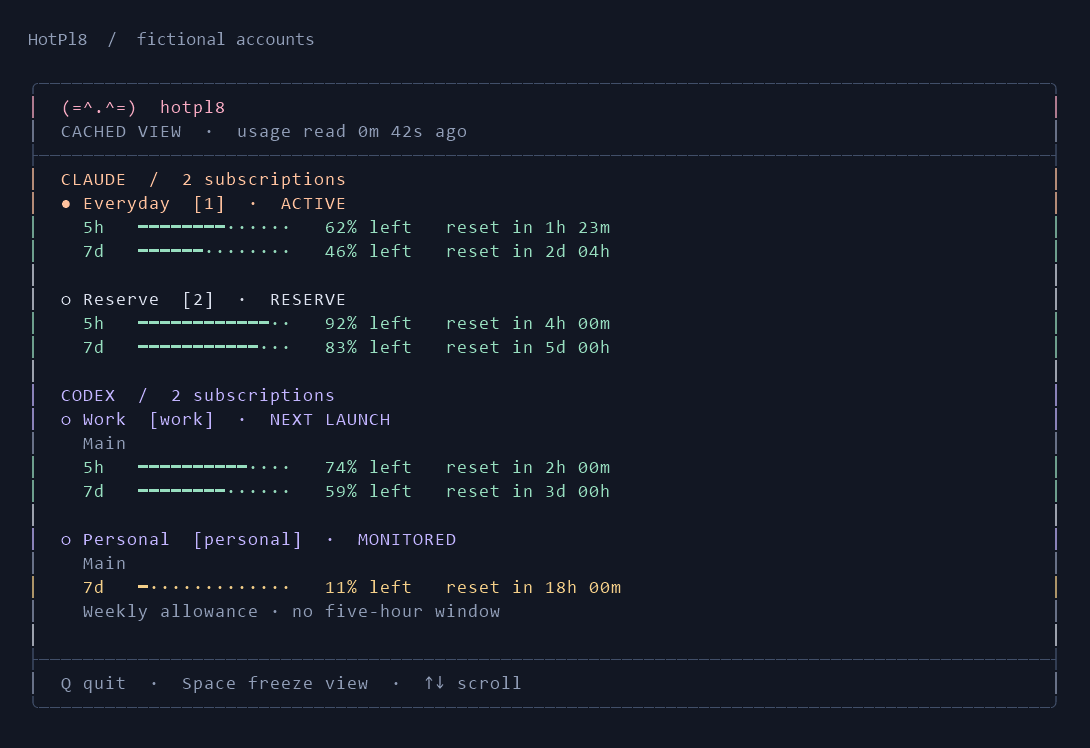
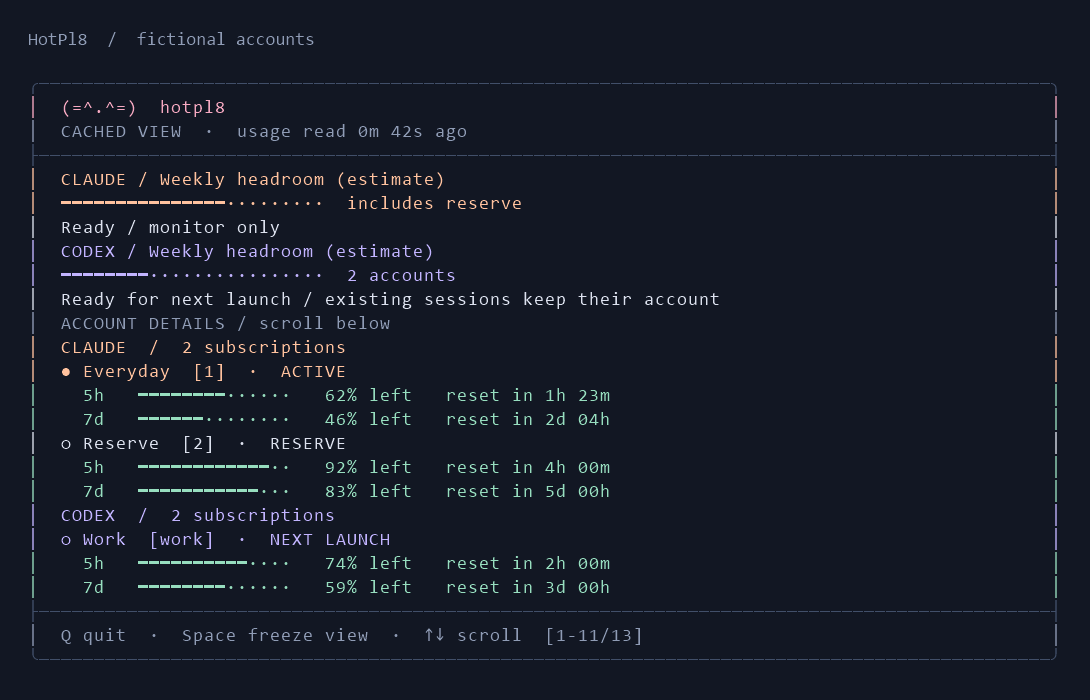
Add unified provider overview with scrollable account details

diff --git a/docs/provider-overview.md b/docs/provider-overview.md
@@ -1,0 +1,23 @@
+# Two providers, one overview
+
+The top of HotPl8 shows one bar for Claude and one for Codex. Each estimates weekly headroom across enabled subscriptions. The line below says whether an account is usable and whether selection is automatic, paused, held, or manual. Codex readiness applies to the next launch; existing sessions retain their accounts.
+
+Scroll down for individual quotas, reset times, warming receipts and selection explanations. The overview stays visible. `hotpl8 status`, `hotpl8 explain`, their JSON output and the optional tray use the same summary calculation. Viewing any of them reads cached evidence without calling providers or sending prompts.
+
+## What the bar measures
+
+Each enabled subscription contributes one equal share. For three accounts with 100%, 50% and 0% of their weekly allowances remaining, the estimate is 50%. An exhausted account stays in the denominator. Disabled accounts leave the managed set. Verified duplicate identities count once; old snapshots without identity evidence cannot establish duplicates.
+
+This is an average of normalized percentages, **not a token budget or a forecast of work-hours**. Different plan tiers may have different capacities. HotPl8 does not invent capacity multipliers, and selection weights do not weight these bars. The primary UI omits a numerical percentage; text/JSON explanations expose the estimate and its coverage.
+
+The Claude bar uses overall weekly usage. The Codex bar uses the configured default meter's weekly window; overlapping meters are never added together. Model limits remain separate eligibility constraints. A bar does not promise the same allowance for every model.
+
+Reserve allowance is included and labeled. Whether it can be selected depends on policy. Readiness also considers short-window limits: the weekly bar can have substantial remaining headroom while the status says unavailable now. The details explain blocked accounts.
+
+## Missing data stays visible
+
+Question marks represent the unknown share of the same bar. If one of three accounts has no valid reading, it still occupies one third; the other two are not expanded to fill the bar. Partial summaries show how many accounts were measured and return no single `remainingPercent` in JSON. Known zero and unknown are distinct.
+
+Old readings, missing windows and expired/unconfirmed resets cannot refill a bar. They require a fresh supported observation. Readers re-evaluate timestamps and policy changes even when the collector has not run again. Collector failures, sign-in needs, blocked readiness and automation pause/hold appear in the overview, with further evidence in the details.
+
+![Individual account details below the fixed provider overview](assets/details.png)

diff --git a/docs/screenshots.md b/docs/screenshots.md
@@ -8,10 +8,12 @@ From the repository root, on Windows with Windows PowerShell 5.1 and Consolas:
 powershell -NoProfile -ExecutionPolicy Bypass -File .\scripts\screenshots.ps1
 ```
 
-Commit the regenerated PNGs in [assets](assets/dashboard.png) with the UI change. Open both images before committing; inspect legibility, clipping, colors, and the first-run instructions. No screenshot tool or provider installation is required.
+Commit the regenerated PNGs in [assets](assets/dashboard.png) with the UI change. Open all images before committing; inspect legibility, clipping, colors, and the first-run instructions. No screenshot tool or provider installation is required.
 
 The harness calls the production [dashboard renderer](../src/dashboard.ps1) and its shared palette. It draws those terminal cells into PNGs with a small caption using Windows System.Drawing. It is a reproducible rendering of the actual UI, not a capture of a live account session. The caption identifies the data as fictional.
 
 The [fixture](../tests/fixtures/screenshots.ps1) fixes account labels, percentages and the clock. The harness fixes viewport, font, DPI and cell size. Identical inputs on the same Windows/font environment produce identical bytes; other font/OS revisions may rasterize differently. Use `-OutputDirectory PATH` to compare a second render without replacing the committed images.
 
 Change the renderer for a UI change, or the fixture for a different documentation scenario. Keep fixtures fictional and independent of the machine. Never load policy.json, status.json, account homes, environment secrets, or native provider output into this harness. This is a development tool, not an application demo command.
+
+`dashboard.png` fixes the opening view at 94 columns by 25 rows. `details.png` renders the last details page at 94 by 34 with the same pinned provider overview. `operations.png` exercises operational detail at 110 by 50. All use the same fixed clock and renderer.

diff --git a/docs/architecture.md b/docs/architecture.md
@@ -77,6 +77,7 @@ src/
   automation.ps1            Shared pause, schedule and attempt gates
   warming.ps1               Receipt persistence and observation reconciliation
   collection.ps1            Persisted collection due times and backoff
+  overview.ps1              Pure provider summaries shared by all cached views
   forecast.ps1 / insights.ps1
                             Shared estimates, bounded history and activity
   selection.ps1 / replay.ps1 Optional ranking keys and production-selector replay
@@ -99,3 +100,5 @@ Public entrypoints stay at the root so existing commands, scheduled tasks, and h
 PowerShell keeps the Windows installation small, but other platforms are not release-qualified. Native provider contracts can change: fixture tests establish local behavior, while live compatibility needs separate evidence. Monitor mode is the starting point; optional automation needs explicit configuration. See [compatibility](compatibility.md) for the tested scope and remaining qualification work.
 
 The collector adds insights and shadow decisions before one atomic publication. Views consume recorded decisions and overlay the latest collector/pause state; they never run selection actions. [Operations and state contracts](operations.md).
+
+Provider summaries are additive `providerOverview` fields on snapshots and status output. Readers recompute them from current policy, cached observations and the current clock; an old saved summary never makes old data fresh. The pinned dashboard overview, tray and CLI use the same pure calculation. [Metric contract](provider-overview.md).

diff --git a/docs/operations.md b/docs/operations.md
@@ -87,3 +87,5 @@ Use the policy that produced the trace, apart from the ordering being compared. 
 Run `hotpl8 tray` in a Windows desktop session. It reads the same cache, shows account details, opens the terminal dashboard, and exposes deliberate pause/resume commands. It owns no provider process or collector. Quit removes the icon; scheduled collection continues. A per-state mutex prevents two tray consumers from duplicating notifications. `hotpl8 tray -Once` prints the view model without opening a window.
 
 Notifications require `notificationsEnabled: true` and follow work hours. They cover sustained collector failure, no eligible account, native sign-in needs and a fresh depletion estimate. Transition state persists across restarts and ignores harmless reset drift. Routine polls and warm successes do not notify. Windows may suppress balloons under system notification settings. This companion is optional, is not installed at startup, and has not yet completed an interactive desktop/idle-resource qualification pass. Native Mac delivery belongs to the [Mac handoff](plans/macos-handoff.md).
+
+The dashboard, status command and tray share the [provider overview](provider-overview.md). `status -AsJson` adds `providerOverview` while retaining all per-account fields; `explain -AsJson` also includes it. `remainingPercent` is null with partial coverage; `knownRemainingPercent` and `unknownPercent` use the full enabled membership as their denominator. `computedAt` is the calculation clock, not a quota observation timestamp.

diff --git a/README.md b/README.md
@@ -6,9 +6,11 @@
 
 - **Pick the best available account.** Automatically switch Claude accounts using quota, reset times, and your reserve rules. Codex selects an account for your next launch.
 - **Warm idle Claude accounts.** Optional small requests aim to start usage windows earlier, so accounts are ready when you need them.
-- **See every account at a glance.** Remaining quota, reset times, active accounts, and stale readings in one terminal dashboard.
+- **See your subscriptions at a glance.** One weekly-headroom bar for Claude and one for Codex, with readiness beside each and individual accounts below.
 
-![HotPl8 showing two fictional Claude accounts and two Codex accounts, with quota bars, reset times, and separate ACTIVE and NEXT LAUNCH indicators](docs/assets/dashboard.png)
+![HotPl8 showing unified Claude and Codex weekly-headroom bars with account details below](docs/assets/dashboard.png)
+
+[How the provider bars work](docs/provider-overview.md) · Scroll down for individual quotas, resets and selection details.
 
 Windows preview. Starts in monitoring mode; Claude switching and warming are opt-in and experimental. Warming consumes quota and does not increase subscription limits. Codex warming remains unavailable pending native qualification. [Compatibility and provider boundaries](docs/compatibility.md).
 

diff --git a/docs/plans/macos-handoff.md b/docs/plans/macos-handoff.md
@@ -50,3 +50,7 @@ Record pass/fail, exact versions and sanitized evidence for each row; do not mar
 | Engineering | Windows suite still passes; Mac suite and CI pass; reproducible package includes every dependency; secret scan passes. |
 
 Commit the Mac implementation, tests and qualification record together in reviewable increments, push the public branch, and open a PR. Update compatibility, install/usage/upgrading docs, policy schema, release manifest and feature-status plan as applicable. Keep unsupported cells explicit. Leave the owner a short report of what works, any real account/provider boundary requiring a decision, and links to the PR and tested artifact. Do not publish a stable support claim until its rows pass.
+
+## Provider overview parity
+
+Preserve the platform-neutral `src/overview.ps1` metric and additive `providerOverview` contract when implementing Mac UI. Present the two provider summaries above individual details, preserve unknown shares and reserve disclosure, and distinguish next-launch readiness from current-session binding. Run `tests/test-overview.ps1` through the native test-port work; verify narrow/short terminal scrolling with the overview fixed. See [provider overview](../provider-overview.md).

diff --git a/docs/usage.md b/docs/usage.md
@@ -26,3 +26,7 @@ Doctor prints setup and dependency guidance in human mode. Its `-AsJson` fields 
 ## Account operations
 
 The 0.2 source candidate adds `setup [-Interactive]`, `accounts`, `explain`, `capabilities`, `pause`/`resume`, `history`, `tray`, `update-check` and `update`. See [commands and operational semantics](operations.md) and [verified updates](upgrading.md). These are not present in the older downloadable preview.
+
+## Provider overview
+
+The dashboard opens with one weekly-headroom bar per provider. These estimates summarize the subscription set; the readiness line accounts for short-window and model constraints. Arrow/Page keys scroll account details below the fixed overview; Home/End select the first/last detail page. Space freezes the view only. Resize to at least 48 columns and 15 rows. [Meaning, unknown readings and reserves](provider-overview.md).

diff --git a/CHANGELOG.md b/CHANGELOG.md
@@ -1,5 +1,9 @@
 # Changelog
 
+## Unreleased
+
+- Unified Claude and Codex weekly-headroom overview with pinned summaries and scrollable account details. Shared CLI/tray summaries show partial coverage, reserves, readiness and automation state without treating percentages as absolute capacity.
+
 ## 0.2.0-rc.1 ? source candidate
 
 - Add observed warming receipts, explanations/activity, collector health/backoff, weekly estimates and optional local history.
